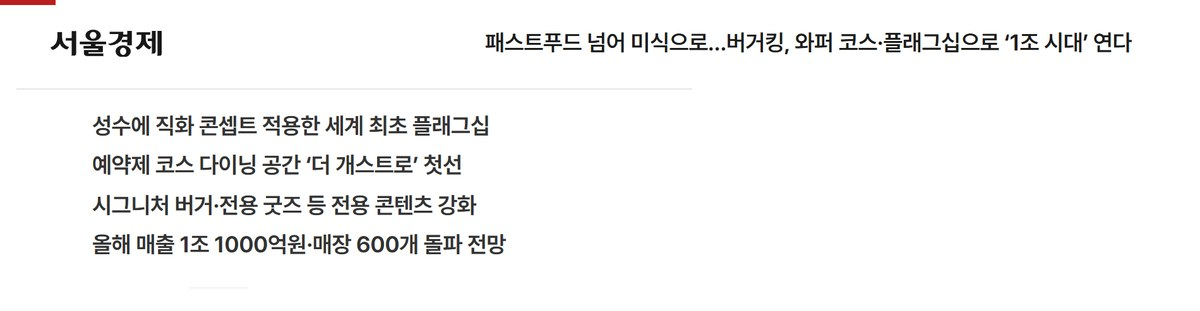
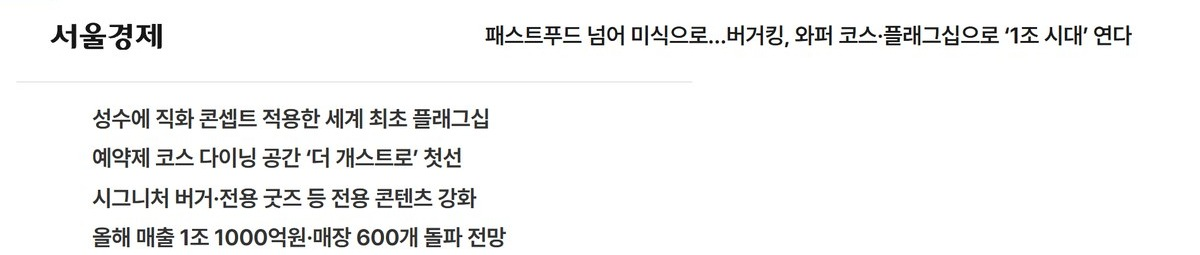
v4.33 메뉴 이름 섹션 재구성

diff --git a/index.html b/index.html
@@ -850,58 +850,109 @@ h2.rvh{font-size:clamp(54px, 6.9vw, 104px); line-height:1.16; letter-spacing:.00
   .rvroll__track{animation-duration:75s}
 }
 
-/* ── 기사 클리핑 (v4.19) — 실제 보도 화면 인용 ─────────────────────────
-   대표 판단으로 텍스트 인용에서 실제 기사 캡처로 올렸다. 저작권 리스크를
-   먼저 보고했고(언론사 저작물 복제·전송), 대표가 진행을 택했다.
-   내가 통제한 것은 범위다 — 기사 전문이 아니라 매체명·제목·리드·날짜까지만
-   잘랐고, 캡처 안에 타사 콘텐츠(연관기사·광고)가 섞이지 않게 요소 기준으로 크롭했다.
-   출처와 날짜는 아래 note 에 명기한다. */
-.clips{
-  display:grid; grid-template-columns:repeat(2,1fr); gap:clamp(18px,2.4vw,34px);
-  margin:clamp(28px,3.6vw,46px) 0 0; padding:0; list-style:none;
-}
-.clip{
-  background:var(--white); border:3px solid var(--ink); box-shadow:var(--sh-clip);
-  padding:clamp(12px,1.4vw,18px);
-}
-.clip img{width:100%; height:auto; display:block; border:1px solid var(--line)}
-.clip__src{
-  margin-top:12px; font-family:var(--ff-plate); font-size:var(--fs-cap);
-  line-height:1.5; color:var(--ink);
-}
-.clip__src b{color:var(--red-deep); font-weight:400}
+/* ── 시장 신호 (v4.33) — 글로벌 브랜드가 붙인 한국어 이름 2건 ────────────
+   저작권 범위는 v4.19 판단을 그대로 잇는다. 대표가 텍스트 인용 대신 실제 지면
+   캡처를 택했고, 내가 통제한 건 범위다 — 기사 전문이 아니라 매체명·제목·리드·
+   날짜까지만 자르고, 캡처 안에 타사 콘텐츠(연관기사·광고)가 안 섞이게 크롭했다.
 
-/* ── 한글 메뉴명 일러스트 (v4.19) ────────────────────────────────────
-   리네임 목록을 글자에서 그림으로 올린다. 「네모감자」·「양파링」은 이름 자체가
-   그림이라, 읽는 순간 왜 이 이름을 골랐는지가 설명 없이 전달된다.
-   일러스트는 배경을 --cream 으로 정규화해 크림 섹션에 얹으면 판이 안 보인다. */
+   v4.33 에서 두 가지를 고쳤다.
+   ⚠ ① 판독 불가 — 원본이 1200px 인데 2열이라 522px 로 눌렸다. 지면 본문 글자가
+        약 5px 로 뭉개져, 이 섹션의 **근거가 근거로 작동하지 않았다**.
+        한 행에 한 건씩 눕혀 지면에 약 800px 을 준다(0.67배 — 부제까지 읽힌다).
+   ⚠ ② 근거와 캡션 불일치 — 서울경제 지면에는 「성수 플래그십·코스 다이닝·매출 전망」만
+        있고 「K큐브 갈비 버거」가 없는데, 캡션이 그 지면을 근거인 양 달고 있었다.
+        메뉴명 출처(비즈니스포스트 2026.08.26)를 따로 명기하고, 지면 캡션에는
+        그 지면의 실제 헤드라인만 옮긴다. 4WAY·평수와 같은 유형의 사고였다.
+
+   ⚠ 한국어 이름 그 자체가 증거다. 그래서 이름을 좌측에 크게 세우고 지면은 뒷받침으로 둔다. */
+.signal{
+  display:grid; gap:clamp(16px,2.2vw,30px);
+  margin:clamp(26px,3.4vw,44px) 0 0; padding:0; list-style:none;
+}
+.sig{
+  display:grid; grid-template-columns:minmax(240px,320px) 1fr;
+  gap:clamp(18px,2.4vw,34px); align-items:start;
+  background:var(--white); border:3px solid var(--ink); box-shadow:var(--sh-clip);
+  padding:clamp(16px,2vw,26px);
+}
+.sig__brand{
+  margin:0; width:max-content; max-width:100%;
+  font-family:var(--ff-plate); font-size:var(--fs-cap); letter-spacing:.1em;
+  line-height:1.6; color:var(--white); background:var(--ink); padding:4px 11px;
+}
+.sig__name{
+  margin:clamp(10px,1.2vw,15px) 0 0; font-family:var(--ff-sign); font-weight:400;
+  font-size:clamp(24px,2.9vw,42px); line-height:1.2; letter-spacing:-.015em;
+  color:var(--red-deep);
+}
+.sig__desc{margin:10px 0 0; font-size:var(--fs-cap); line-height:1.65; color:var(--ink)}
+/* ⚠ --ink-2 는 흰 바탕에서 7.65:1 이라 밝은 배경 하한 10:1 에 미달한다
+   (그 토큰은 취소선·비활성 도장 같은 '의도적 약화' 전용이다). 출처는 읽혀야 하므로 --ink. */
+.sig__src{margin:10px 0 0; font-family:var(--ff-plate); font-size:var(--fs-cap);
+  line-height:1.6; color:var(--ink)}
+.sig__clip{margin:0}
+.sig__clip img{width:100%; height:auto; display:block; border:1px solid var(--line)}
+/* 지면 헤드라인을 그대로 옮기므로 한 줄이 50자까지 간다(상한 45자).
+   글자를 줄이면 인용이 아니게 되므로, 폭을 끊어 두 줄로 접는다. */
+.sig__clip figcaption{
+  margin-top:9px; font-family:var(--ff-plate); font-size:var(--fs-cap);
+  line-height:1.6; color:var(--ink); max-width:38em;
+}
+
+/* ── 우리 이름 (v4.33) — 「그들도 한다」 다음에 오는 「우리는 처음부터」 ──────
+   v4.19 구조에서 두 가지가 안 됐다.
+   ① 일러스트 4개가 크림 위에 프레임 없이 떠 있어, 굵은 외곽선 만화체가 이 페이지의
+      사진 기반 톤과 겉돌았다. 카드에 앉히면 '떠 있음'이 '진열됨'이 된다.
+   ② 「해쉬브라운」(작게 위) / 「네모감자」(크게 아래)가 전환 기호 없이 두 줄로만 놓여
+      **'바꿨다'는 관계가 안 읽혔다**. 취소선 색을 레드로 올리고 아래 화살표를 세워
+      from→to 를 못 박는다(화살표는 CSS 삼각형 — 자산을 늘리지 않는다).
+   위 시장 신호 2건과 이 4장을 한 판(.ours) 안에 묶어, 「글로벌이 지금 하는 일」과
+   「티티버거가 처음부터 한 일」이 한 덩어리로 읽히게 한다. */
+.ours{
+  margin-top:clamp(30px,4vw,52px);
+  background:var(--white); border:3px solid var(--ink); box-shadow:var(--sh-clip);
+  padding:clamp(20px,2.6vw,34px);
+}
+.ours__head{
+  display:grid; grid-template-columns:minmax(230px,1fr) 1.45fr;
+  gap:clamp(16px,2.4vw,36px); align-items:start;
+  border-bottom:3px solid var(--ink); padding-bottom:clamp(16px,2vw,24px);
+}
+.ours__h{
+  margin:0; font-family:var(--ff-sign); font-weight:400;
+  font-size:var(--fs-h3); line-height:1.32; color:var(--ink);
+}
+.ours__head p{margin:0; font-size:var(--fs-body); line-height:1.75; color:var(--ink)}
 .hnames{
   display:grid; grid-template-columns:repeat(4,1fr); gap:clamp(12px,1.6vw,24px);
-  margin:clamp(28px,3.6vw,46px) 0 0; padding:0; list-style:none;
+  margin:clamp(20px,2.6vw,34px) 0 0; padding:0; list-style:none;
 }
-.hname{text-align:center}
+.hname{
+  text-align:center; background:var(--cream);
+  border:2px solid var(--ink); padding:clamp(10px,1.2vw,16px) clamp(8px,1vw,14px) clamp(14px,1.6vw,20px);
+}
 .hname img{width:100%; height:auto; aspect-ratio:1/1; object-fit:contain; display:block}
 .hname__from{
-  display:block; margin-top:6px; font-size:var(--fs-cap); color:var(--ink-2);
-  text-decoration:line-through; text-decoration-thickness:2px;
+  display:block; margin-top:8px; font-family:var(--ff-plate);
+  font-size:var(--fs-cap); line-height:1.6; color:var(--ink-2);
+  text-decoration:line-through; text-decoration-thickness:2px; text-decoration-color:var(--red);
+}
+/* 아래 화살표 — 「바꿨다」를 기호로 못 박는다 */
+.hname__to::before{
+  content:""; display:block; width:0; height:0; margin:7px auto;
+  border-left:6px solid transparent; border-right:6px solid transparent;
+  border-top:8px solid var(--red);
 }
 .hname__to{
-  display:block; margin-top:4px; font-family:var(--ff-sign); font-weight:400;
-  font-size:clamp(17px,1.5vw,22px); line-height:1.3; color:var(--ink);
+  display:block; font-family:var(--ff-sign); font-weight:400;
+  font-size:clamp(17px,1.6vw,24px); line-height:1.3; color:var(--ink);
 }
 @media (max-width:860px){
-  .clips{grid-template-columns:1fr}
+  .sig{grid-template-columns:1fr; gap:clamp(14px,3vw,20px)}
+  .ours__head{grid-template-columns:1fr; gap:clamp(12px,2.6vw,18px)}
   .hnames{grid-template-columns:repeat(2,1fr)}
 }
 
-.hangul{
-  margin-top:clamp(34px,4.2vw,60px); background:var(--cream);
-  border:0; box-shadow:none;
-  padding:clamp(26px,3.2vw,42px);
-}
-.sec--cream .hangul{background:var(--white)}
-.hangul__h{font-family:var(--ff-sign); font-weight:400; font-size:var(--fs-h3); line-height:1.32; color:var(--ink)}
-.hangul p{margin-top:14px; font-size:var(--fs-body); line-height:1.75; color:var(--ink); max-width:var(--measure-narrow)}
 
 /* ══ 09 업종 변경 — 전환 체크리스트 ══ */
 /* v4.31 — 「바뀌는 것 / 안 바뀌는 것」이 이 섹션의 핵심 대비인데 두 카드가 같은 톤이라
@@ -1194,7 +1245,6 @@ dialog.pp::backdrop{background:rgba(26,22,20,.62)}
   .fee__price{grid-column:1; font-size:var(--fs-cap)}
   .stamp{grid-row:1/3; grid-column:2; align-self:center}
   .fee__row--head{display:none}
-  .hangul{grid-template-columns:1fr}
 }
 @media (max-width:560px){
   /* 320px 에서 nowrap 한 줄이 컨테이너에 0.6px 차이로 겨우 들어간다.
@@ -1261,8 +1311,6 @@ dialog.pp::backdrop{background:rgba(26,22,20,.62)}
 }
 .sec--dark .menu li:first-child .menu__name{border-radius:2px}
 .sec--dark .menu img{background:var(--dark-2)}
-/* 한글명판 패널은 다크 안의 크림 섬 — 칩 배경을 흰색으로 되살림 */
-.sec--dark .hangul{background:var(--cream)}
 
 /* ── 교차 에디토리얼 (브랜드) ── */
 /* v4.32 밀도 패스 — 이 섹션은 3,183px 로 문서에서 가장 긴데 잉크 레이어가 1.18 로
@@ -2104,57 +2152,81 @@ dialog.pp::backdrop{background:rgba(26,22,20,.62)}
   <section class="sec sec--cream" id="menu-side" aria-labelledby="ms-h">
     <div class="wrap">
       <p class="eyebrow">메뉴 이름</p>
-      <h2 class="h2" id="ms-h">촌스러운 게 아니라, 지금 글로벌 트렌드입니다</h2>
-      <p class="lead">한글 이름이 촌스럽지 않을까 — 그렇게 보실 수 있습니다.
-        그런데 지금 한국식 이름을 간판에 올리는 쪽은 글로벌 브랜드입니다.</p>
+      <!-- v4.33 — 개정 전 헤드는 「촌스러운 게 아니라, 지금 글로벌 트렌드입니다」였다.
+           ⚠ 우리가 「촌스러운」을 먼저 꺼내면 읽는 분이 그 생각을 안 했어도 심어 준다.
+              게다가 「~가 아니라」로 열면 문장이 수세가 된다 — 기획안 원안의
+              「누구나 알아보는 한글 간판」은 공세인데 변명이 돼 있었다(G13 부정 프레임 선행).
+           대표 결정(2026-08-29): 트렌드 축은 유지하고 근거만 보강한다.
+           ⚠ mark 하이라이트는 페이지 3곳 한도(없습니다·넓습니다·그대로)라 여기엔 쓰지 않는다. -->
+      <h2 class="h2" id="ms-h">지금 간판에 한국어를 올리는 쪽은 글로벌 브랜드입니다</h2>
+      <p class="lead">티티버거는 처음부터 한국어로 지었습니다.
+        최근 몇 달 사이, 글로벌 버거·치킨 브랜드가 <span class="hl">같은 선택</span>을 하기 시작했습니다.</p>
 
-      <!-- 시장 신호 — 실제 보도 클리핑 2건. 범위는 매체명·제목·리드·날짜까지. -->
-      <ul class="clips" aria-label="한국식 이름을 앞세운 글로벌 버거 브랜드 보도">
-        <li class="clip">
-          <img src="_assets/news/clip_sedaily_burgerking.jpg"
-               alt="서울경제 기사 헤드 — 패스트푸드 넘어 미식으로, 버거킹 와퍼 코스·플래그십으로 1조 시대 연다. 리드에 성수 세계 최초 플래그십, 시그니처 버거 전용 콘텐츠 강화가 적혀 있다"
-               loading="lazy" width="1200" height="311">
-          <p class="clip__src"><b>서울경제</b> · 2026.08.27 — 성수 플래그십 전용 시그니처 3종 중 하나가 「K-큐브 갈비 버거」</p>
+      <!-- 시장 신호 2건. 좌측의 한국어 이름이 곧 증거이고, 우측 지면이 그 뒷받침이다.
+           ⚠ 지면 캡션에는 그 지면에 실제로 실린 헤드라인만 옮긴다. 지면에 없는 사실
+              (버거킹 시그니처 메뉴명)은 자기 출처를 따로 달았다. -->
+      <ul class="signal" aria-label="한국어 이름을 앞세운 글로벌 브랜드 사례 2건">
+        <li class="sig">
+          <div class="sig__side">
+            <p class="sig__brand">BURGER KING</p>
+            <p class="sig__name">K큐브 갈비 버거</p>
+            <p class="sig__desc">성수에 연 세계 최초 플래그십 「플레임그라운드」에서만 파는
+              시그니처 버거 3종 가운데 하나입니다.</p>
+            <p class="sig__src">메뉴명·구성 — 비즈니스포스트 2026.08.26<br>아래 지면 — 서울경제 2026.08.27</p>
+          </div>
+          <figure class="sig__clip">
+            <img src="_assets/news/clip_sedaily_burgerking.jpg"
+                 alt="서울경제 기사 헤드 — 패스트푸드 넘어 미식으로, 버거킹 와퍼 코스·플래그십으로 1조 시대 연다. 부제에 성수에 직화 콘셉트 적용한 세계 최초 플래그십, 예약제 코스 다이닝 공간 더 개스트로 첫선이 적혀 있다"
+                 loading="lazy" decoding="async" width="1200" height="255">
+            <figcaption>서울경제 지면 — 「패스트푸드 넘어 미식으로…버거킹, 와퍼 코스·플래그십으로 ‘1조 시대’ 연다」</figcaption>
+          </figure>
         </li>
-        <li class="clip">
-          <img src="_assets/news/clip_seoulfn_kfc.jpg"
-               alt="서울파이낸스 기사 헤드 — 르포, 북촌 달군 바삭한 집들이, KFC의 색다른 브랜드 실험"
-               loading="lazy" width="1200" height="227">
-          <p class="clip__src"><b>서울파이낸스</b> · 2026.06.05 — KFC 북촌 한옥마을 팝업 「켄터키 할아버지의 바삭한 집들이」</p>
+        <li class="sig">
+          <div class="sig__side">
+            <p class="sig__brand">KFC</p>
+            <p class="sig__name">바삭한 집들이</p>
+            <p class="sig__desc">북촌 한옥마을에 연 팝업의 이름입니다.
+              전통과 브랜드 경험을 묶은 기획으로, 소스·시즈닝 11종을 함께 공개했습니다.</p>
+            <p class="sig__src">지면 — 서울파이낸스 2026.06.05</p>
+          </div>
+          <figure class="sig__clip">
+            <img src="_assets/news/clip_seoulfn_kfc.jpg"
+                 alt="서울파이낸스 기사 헤드 — 르포, 북촌 달군 바삭한 집들이, KFC의 색다른 브랜드 실험. 부제에 전통과 브랜드 경험 결합 이색 팝업, 11종 소스·시즈닝 공개가 적혀 있다"
+                 loading="lazy" decoding="async" width="1200" height="174">
+            <figcaption>서울파이낸스 지면 — 「[르포] 북촌 달군 ‘바삭한 집들이’…KFC의 색다른 브랜드 실험」</figcaption>
+          </figure>
         </li>
       </ul>
 
-      <!-- 한글 메뉴명 — 이름이 곧 그림이 되는 것들. 리네임 목록을 글자에서 그림으로 올렸다. -->
-      <ul class="hnames" aria-label="흔히 쓰는 외래어 메뉴명을 한글 이름으로 바꾼 예">
-        <li class="hname">
-          <img src="_assets/illust/illust_nemogamja.png" alt="네모난 해시브라운 감자 두 조각 일러스트" loading="lazy" width="640" height="640">
-          <span class="hname__from">해쉬브라운</span><span class="hname__to">네모감자</span>
-        </li>
-        <li class="hname">
-          <img src="_assets/illust/illust_yangparing.png" alt="튀긴 양파링 세 개 일러스트" loading="lazy" width="640" height="640">
-          <span class="hname__from">어니언링</span><span class="hname__to">양파링</span>
-        </li>
-        <li class="hname">
-          <img src="_assets/illust/illust_dubae.png" alt="패티 두 장이 쌓인 버거 일러스트" loading="lazy" width="640" height="640">
-          <span class="hname__from">더블불고기</span><span class="hname__to">두배불고기버거</span>
-        </li>
-        <li class="hname">
-          <img src="_assets/illust/illust_gyeran.png" alt="불고기 패티 위에 계란프라이가 얹힌 일러스트" loading="lazy" width="640" height="640">
-          <span class="hname__from">에그불고기</span><span class="hname__to">계란불고기버거</span>
-        </li>
-      </ul>
-
-      <div class="hangul">
-        <div>
-          <h3 class="hangul__h">간판도 메뉴도, 한글입니다</h3>
+      <div class="ours">
+        <div class="ours__head">
+          <h3 class="ours__h">티티버거는 간판도 메뉴도 한글입니다</h3>
           <p>수제버거라고 해서 외국식 간판과 외국어 메뉴명을 따라가지 않았습니다.
             누구나 한 번에 읽고, 한 번에 말할 수 있는 이름을 골랐습니다.
-            버거집에서 만나는 한글 이름은 한 번 피식 하게 만들고, 그래서 기억에 남습니다.
             발걸음을 멈추게 하는 간판, 그리고 손님이 다시 말하게 되는 이름입니다.</p>
         </div>
+        <ul class="hnames" aria-label="흔히 쓰는 외래어 메뉴명을 한글 이름으로 바꾼 예">
+          <li class="hname">
+            <img src="_assets/illust/illust_nemogamja.png" alt="네모난 해시브라운 감자 두 조각 일러스트" loading="lazy" width="640" height="640">
+            <span class="hname__from">해쉬브라운</span><span class="hname__to">네모감자</span>
+          </li>
+          <li class="hname">
+            <img src="_assets/illust/illust_yangparing.png" alt="튀긴 양파링 세 개 일러스트" loading="lazy" width="640" height="640">
+            <span class="hname__from">어니언링</span><span class="hname__to">양파링</span>
+          </li>
+          <li class="hname">
+            <img src="_assets/illust/illust_dubae.png" alt="패티 두 장이 쌓인 버거 일러스트" loading="lazy" width="640" height="640">
+            <span class="hname__from">더블불고기</span><span class="hname__to">두배불고기버거</span>
+          </li>
+          <li class="hname">
+            <img src="_assets/illust/illust_gyeran.png" alt="불고기 패티 위에 계란프라이가 얹힌 일러스트" loading="lazy" width="640" height="640">
+            <span class="hname__from">에그불고기</span><span class="hname__to">계란불고기버거</span>
+          </li>
+        </ul>
       </div>
-      <p class="note">위 보도 인용은 각 매체의 공개 기사이며 저작권은 해당 언론사에 있습니다(2026년 8월 27일 확인).
-        티티버거와 제휴·연관이 없는 타사 사례이며, 시장 흐름을 보여 드리기 위한 참고입니다.</p>
+
+      <p class="note">위 보도 인용은 각 매체의 공개 기사이며 저작권은 해당 언론사에 있습니다(2026년 8월 29일 확인).
+        버거킹·KFC는 티티버거와 제휴·연관이 없는 타사이며, 시장 흐름을 보여 드리기 위한 참고입니다.</p>
     </div>
   </section>
 
@@ -3045,7 +3117,7 @@ dialog.pp::backdrop{background:rgba(26,22,20,.62)}
       { sel: '.ed__row--rev .ed__fig', x: -110 },
       { sel: '.creedsplit b' }, { sel: '.creed p' }, { sel: '.vchip', x: 70 },
       { sel: '#support .limit' },   /* .fee__row 는 5d 순차, .perk 는 5b 팝이 맡는다 */
-      { sel: '.hangul' }, { sel: '.clip', x: 90 }, { sel: '.hname' },
+      { sel: '.ours__head' }, { sel: '.sig', x: 90 }, { sel: '.hname' },
       { sel: '#why .swap .card:nth-child(1)', x: -110 },
       { sel: '#why .swap .card:nth-child(2)', x: 110 },
       /* .fit__list li 는 5d 순차로 이관 */
